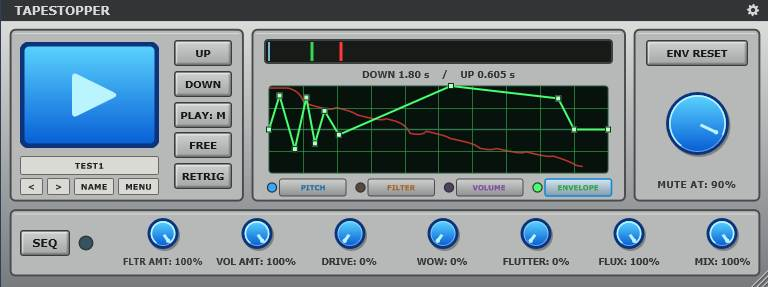
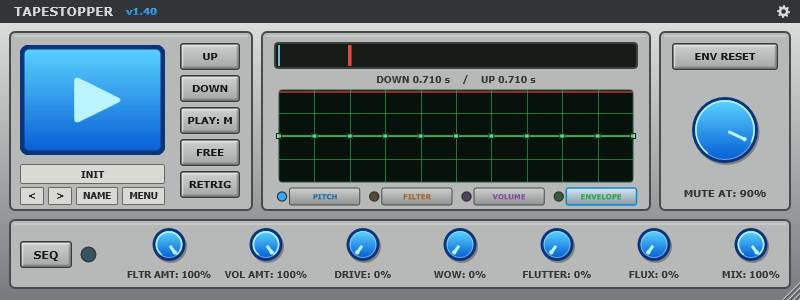
Add files via upload

Changed region(s): [[0.0, 0.0, 1.0, 0.6969], [0.0, 0.7247, 1.0, 1.0], [0.0938, 0.2509, 0.1562, 0.3345]]

diff --git a/source/PluginEditor.cpp b/source/PluginEditor.cpp
@@ -3005,6 +3005,12 @@ void TapeStopperAudioProcessorEditor::paint (juce::Graphics& g)
     g.setFont (juce::FontOptions (15.0f, juce::Font::bold));
     g.drawText ("TAPESTOPPER", 14, 0, 180, 23, juce::Justification::centredLeft);
 
+    juce::ColourGradient versionBlue (juce::Colour (0xff5bd4ff), 0.0f, 0.0f,
+                                      juce::Colour (0xff075ed6), 0.0f, 23.0f, false);
+    g.setGradientFill (versionBlue);
+    g.setFont (juce::FontOptions (12.0f, juce::Font::bold));
+    g.drawText ("v1.40", 126, 0, 52, 23, juce::Justification::centredLeft);
+
     drawPanel (g, { 10.0f, 32.0f, 242.0f, 178.0f });
     drawPanel (g, { 262.0f, 32.0f, 388.0f, 178.0f });
     drawPanel (g, { 660.0f, 32.0f, 130.0f, 178.0f });
